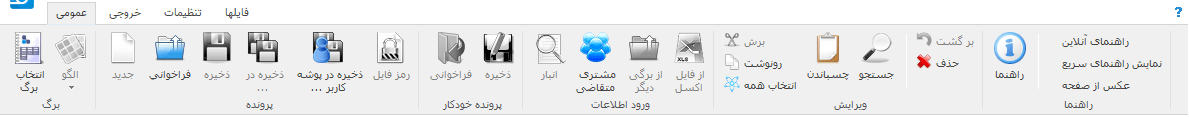
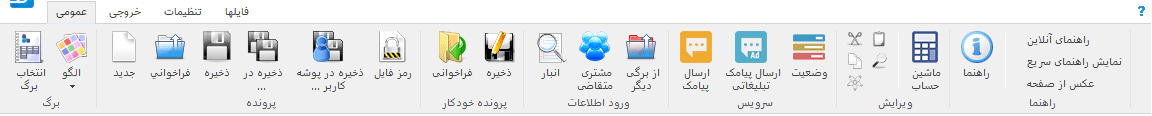
adding v6 1

diff --git a/docs/source/conf.py b/docs/source/conf.py
@@ -24,7 +24,7 @@ copyright = u'2021, Mohsensoft'
 author = u'Mohsen Bahraminejad, Mohammad reza khalifeh'
 
 # The short X.Y version
-version = u'3.0'
+version = u'4.0'
 # The full version, including alpha/beta/rc tags
 release = u'.rst'
 

diff --git a/docs/source/window-main.rst b/docs/source/window-main.rst
@@ -54,7 +54,7 @@
 
 **ذخیره در ... :** از این گزینه برای ذخیره سند موجود در فایلی جدید استفاده نمایید .
 
-|newflag| **ذخیره در پوشه کاربر ... :** از این گزینه برای ذخیره سند موجود در فایلی جدید در پوشه مخصوص به مشتری/متقاضی/پروژه انتخاب شده استفاده نمایید، برای اطلاعات بیشتر به :ref:`مدیریت فایل<file-manager-manage>` مراجعه نمایید
+**ذخیره در پوشه کاربر ... :** از این گزینه برای ذخیره سند موجود در فایلی جدید در پوشه مخصوص به مشتری/متقاضی/پروژه انتخاب شده استفاده نمایید، برای اطلاعات بیشتر به :ref:`مدیریت فایل<file-manager-manage>` مراجعه نمایید
 
 **رمز فایل :** برای تنظیم، تغییر و برداشتن رمز فایل باز شده از این گزینه استفاده کنید، برای اطلاعات بیشتر به قسمت :ref:`رمزفایل<window-password>` مراجعه نمایید.
 
@@ -82,6 +82,18 @@
 **ویرایش :** این گزینه ها موارد معمولی و عمومی کار با حافظه موقت است که می توانید متن انتخاب شده خود را کپی و یا کات کنید و همچنین آن را در محل مورد نظرتان انتقال دهید .
 |
 
+.. _bar-service:
+
+|newflag| سرویس
+``````````````````
+برای اطلاعات بیشتر در مورد این امکان به قسمت سرویس مراجعه نمایید.
+
+**ارسال پیامک:** از این گزینه برای ارسال پیامک اطلاع رسانی استفاده میشود، به علت شرایط خاص این نوع پیامک ها که از لیست سیاه مخابراتی عبور میکنند ارسال آن پیش نیازهایی دارد که در قسمت سرویس توضیح داده شده است.
+
+**ارسال پیامک تبلیغاتی:** این گزینه برای ارسال پیامک های انبوه تبلیغاتی استفاده میشود.
+
+**وضعیت:** با انتخاب این گزینه کادری نمایش داده میشود که وضعیت سرویس و لیست درخواست های ارسال شده و وضعیت آنها نمایش داده میشود.
+
 .. _template:
 
 الگو
@@ -103,7 +115,7 @@
 
 **فراخوانی:** برای فراخوانی الگو ای که از لیست انتخاب نموده اید می باشد .معادل اینکار دوبار کلیک کردن بر روی گزینه مورد نظر در لیست می باشد .
 
-|newflag| **الحاق:** توسط این گزینه بدون بارگذاری مجدد برگه و حذف اطلاعات وارد شده تغییرات الگوی انتخاب شده اعمال میشود، این تغییرات علاوه بر فیلدها میتواند حتی مواردی در جدول باشند، برای مثال میتوانید الگویی ایجاد کنید که در آن یک یا چند سطر وارد کرده باشد و پس از آن در موقع نیاز میتوانید این سطر ها را توسط این گزینه به جدول اضافه نمایید.
+**الحاق:** توسط این گزینه بدون بارگذاری مجدد برگه و حذف اطلاعات وارد شده تغییرات الگوی انتخاب شده اعمال میشود، این تغییرات علاوه بر فیلدها میتواند حتی مواردی در جدول باشند، برای مثال میتوانید الگویی ایجاد کنید که در آن یک یا چند سطر وارد کرده باشد و پس از آن در موقع نیاز میتوانید این سطر ها را توسط این گزینه به جدول اضافه نمایید.
 
 
 .. _bar-output:
@@ -174,7 +186,7 @@
 ````````````
 **تنظیمات :** برای نمایش :ref:`پنجره تنظیمات<window-settings>` از این گزینه استفاده نمایید . همچنین سه گزینه پرکار برد از این پنجره در این گروه قابل دسترس می باشند.
 
-|newflag| **حالت تاریک :** نمایش نرم افزار در حالت تیره، توصیه میشود در محیط های با نور کم برای کاهش فشار بر چشم این حالت را فعال نمایید.
+**حالت تاریک :** نمایش نرم افزار در حالت تیره، توصیه میشود در محیط های با نور کم برای کاهش فشار بر چشم این حالت را فعال نمایید.
 
 .. _bar-settings-margins:
 
@@ -194,7 +206,7 @@
 | **فونت و اندازه :** با تنظیم مقدار فونت میتوانید فونت برگه را تغییر دهید. همچنین میتوانید اندازه فونت ها را نسبت به اندازه فعلی آن به مقدار "اندازه" کم یا زیاد نمایید.
 |
 
-|newflag| فایلها
+فایلها
 ````````````````````
 .. image:: images/bar_file.png
     :alt: تنظیمات
@@ -228,7 +240,7 @@
 
 | از این صفحه برای ثبت مشخصات مشتری یا متقاضی در برگه هایی که به این موارد نیاز دارند استفاده نمایید. این مشخصات در فایل سند برگه ذخیره می شود.
 | **نمایش :** توسط این این گزینه در صورتی که برگه انتخاب شده این امکان را داشته باشد میتوانید قسمت مشخصات مشتری را از خروجی حذف و یا نمایش دهید.
-| |newflag| **عنوان :** توسط این این گزینه در صورتی که برگه انتخاب شده این امکان را داشته باشد میتوانید عنوان قسمت مشخصات مشتری را در خروجی تغییر دهید.
+| **عنوان :** توسط این این گزینه در صورتی که برگه انتخاب شده این امکان را داشته باشد میتوانید عنوان قسمت مشخصات مشتری را در خروجی تغییر دهید.
 | **انتخاب مشتری/متقاضی :** برای این کار کافیست "انتخاب" را کلیلک کرده (یا کلید میانبر  :code:`F8` ) و در پنجره باز شده مشتری/متقاصی مورد نظر را انتخاب کنید. برای اطلاعات بیشتر در مورد کار با این پنجره به قسمت :ref:`پنجره مشتری/متقاضی<window-cust>` مراجعه نمایید.
 | **انتخاب سریع :** برای یک انتخاب سریع میتوانید قسمتی یا کل یکی از اطلاعات ( کد، نام یا شماره تلفن) مشتری/متقاضی را در کادر "شماره/کد اشتراک" وارد کرده و کلید  :code:`Enter` رابفشارید. در این زمان اگر اطلاعات وارد شده جهت جستجو منجر به انتخاب شدن یک مشتری/متقاضی شود اطلاعات آن مشتری انتخاب شده، کادر جستجو به رنگ سبز در میآید و اطلاعات جایگذاری می شود ولی اگر تعداد مشتری/متقاضی انتخاب شده بیشتر از یک عدد بود پنجره انتخاب مشتری باز شده و میتوانید توسط کلید های جهتنمای بالا/پایین مشتری/متقاضی مورد نظر را انتخاب کنید. اگر جستجو نتیجه ای بدنبال نداشت کادر جستجو به رنگ قرمز درآمده و صدای کوچکی پخش می شود.
 | **تغییر عنوان فیلدها :** برای تغییر عنوان مشخصات مشتری/متقاضی از پنجره :ref:`مشتری/متقاضی<window-cust>` استفاده نمایید.
@@ -341,7 +353,7 @@
 | در این منو گزینه هایی برای افزودن سطر، جابجایی و حذف سطر ها وجود دارد که که از نام هر کدام از گزینه ها کار هر کدام مشخص میباشد.
 | **تغییر خودکار ارتفاع سطرها :** با فعال بودن این گزینه در صوزت وارد کردن بیش از یک سطر در خانه های جدول اتفاع آن سطر بصورت خودکار افزایش پدا میکند، توجه کنید که این گزینه مربوط به جدول میباشد و نه خروجی.
 | **جستجو :** با انتخاب این گزینه قسمتی برای جستجو در جدول نمایش داده خواهد شد که میتوانید توسط آن درون اطلاعات داخل جدول جستجو انجام دهید.
-| |newflag| **مقداردهی گروهی :** این گزینه برای پر کردن خودکار سلول های انتخاب شده جدول میباشد، با انتخاب این گزینه پنجره زیر نمایش داده می شود:
+| **مقداردهی گروهی :** این گزینه برای پر کردن خودکار سلول های انتخاب شده جدول میباشد، با انتخاب این گزینه پنجره زیر نمایش داده می شود:
 
 .. image:: images/gride_setcells.png
     :alt: فیلتر جدول
@@ -384,7 +396,7 @@
 
 .. _inlinecalc:
 
-|newflag| محاسبه درجای عبارت ریاضی
+محاسبه درجای عبارت ریاضی
 --------------------------------------
 
 

diff --git a/docs/source/service-sms.rst b/docs/source/service-sms.rst
@@ -1,0 +1,74 @@
+.. meta::
+   :description: از این سرویس میتوانید برای ارسال پیامک های اطلاع رسانی و تبلیغاتی به صورتی پیشرفته و سریع استفاده کنید.
+
+.. _window-main:
+
+==================================
+|newflag| سرویس ارسال پیامک
+==================================
+
+در نرم افزار فاکتور قابلیتی قرار داده شده است که بتوانید براحتی و بصورت پیشرفته انواع پیامک های تبلیغاتی و اطلاع رسانی ارسال نمایید.
+
+تفاوت پیام تبلیغاتی و پیامک اطلاع رسانی این است که در پیامک تبلیغاتی پیام ارسال شده تنها به افزادی خواهد رسید که دریافت این نوع پیامک را مسدود نکرده باشند ولی پیامک اطلاع رسانی به همه ارسال خواهد شد.
+
+به خاطر همین حالت پیامک های اطلاع رسانی، اوپراتورها محدودیت هایی برای ارسال آن در نظر گرفته اند که میبایست رعایت شوند.
+از جمله این محدودیت ها میتوان به ممنوعیت **ارسال لینک** ، **شماره تماس**، **آدرس فضای مجازی** و اجبار به مشخص بودن **نام ارسال کننده** پیام اشاره کرد.
+از این رو برای ارسال پیامک اطلاع رسانی میبایست نام صادر کننده های خود را در قسمت پروفایل از سایت مشخص نمایید تا بتوانیم آنرا در پیام ارسال شده تشخیص و صحت سنجی کنیم. در این صفحه نیز روش کار توضیح داده خواهد شد.
+
+
+.. _service-sms-send:
+
+ارسال پیامک
+===============
+
+برای ارسال پیامک ابتدا میبایست وارد حساب کاربریتان در نرم افزار شوید، این حساب کاربری همان حساب کاربری سایت میباشد.
+برای این کار گزینه **وضعیت** در نوار عمومی قسمت سرویس را انتخاب نمایید تا کادر زیر در کنار پنجره نرم افزار باز گردد:
+
+.. image:: images/service_statuslist.png
+    :alt:  کادر وضعیت سرویس
+    :align: center
+
+در این کادر وضعیت ورود شما و درخواست های ارسال شده و وضعیت آنها نمایش داده میشود.
+
+توسط گزینه اول که در تصویر بالا سبز رنگ میباشد میتوانید وارد حساب کاربری خود شوید، پس از کلیک کردن روی آن، پنجره ورود نمایش داده میشود که با وارد کردن نام کاربری (شماره موبایل) و رمز عبور میتوانید وارد حساب کاربری خود شوید، این ورود تا یک ماه اعتبار دارد و نیاز به ورود مجدد برای هر بار باز شدن نرم افزار نیست.
+
+پس از وارد شدن به حساب کاربری رنگ این گزینه سبز میشود که نشان از صحت ورود شماست در غیراینصورت این گزینه قرمز است.
+
+گزینه بعد برای انتقال به `قسمت سرویس از پروفایل`_ شما در سایت میباشد که در آنجا میتوانید وضعیت کامل سرویسها و شارژ آنها را انجام دهید.
+
+
+ارسال پیامک تبلیغاتی
+-----------------------------
+با انتخاب گزینه **ارسال پیامک تبلیغاتی** در نوار عمومی پنجره زیر باز خواهد شد
+
+.. image:: images/service_sms_send_ad.png
+    :alt:  کادر وضعیت سرویس
+    :align: center
+
+در این پنجره پنج بخش وجود دارد:
+
+گروه ها و شماره ها
+```````````````````````
+این قسمت برای دسته بندی شماره ها بکار می رود، مانند تصویر میتوانید گروه های مختلفی برای ارسال پیامک تبلیغاتی درست کنید تا براحتی و بسرعت به آنها پیامک ارسال نمایید.
+
+در روبروی عنوان هر بخش گزینه هایی برای افزودن، حذف کردن و ویرایش مورد انتخاب شده وجود دارد.
+
+در قسمت شماره ها میتوانید علاوه بر افزودن شماره جدید بصورت تکی آنها را از بخش "مشتری/متقاض" و یا از منوی جلوی نام بخش از یک لیست متن و یا جدول اکسل مستقیما وارد نمایید.
+
+توجه : نرم افزار بصورت خودکار امکان وجود شماره تکراری را نمیدهد.
+
+
+
+خرید بسته پیامک
+===================
+
+به علت هزینه بر بودن ارسال پیامک میبایست قبل از ارسال حساب کاربری خود را شارژ نمایید . برای این منظور بست ههای مختلفی برا ارسال پیامک در سایت وجود دارد که بنا به نیاز خود میتوانید آنها را تهیه نمایید. ما سعی کرده ایم کمترین تعرفته پیامک را برای شما ارائه دهیم.
+
+برا این کار کافیست به قسمت `سرویسها`_ در سایت مراجعه نمایید.
+
+
+
+
+
+.. _قسمت سرویس از پروفایل: https://mohsensoft.com/account/services
+.. _سرویسها: https://mohsensoft.com/search/service
